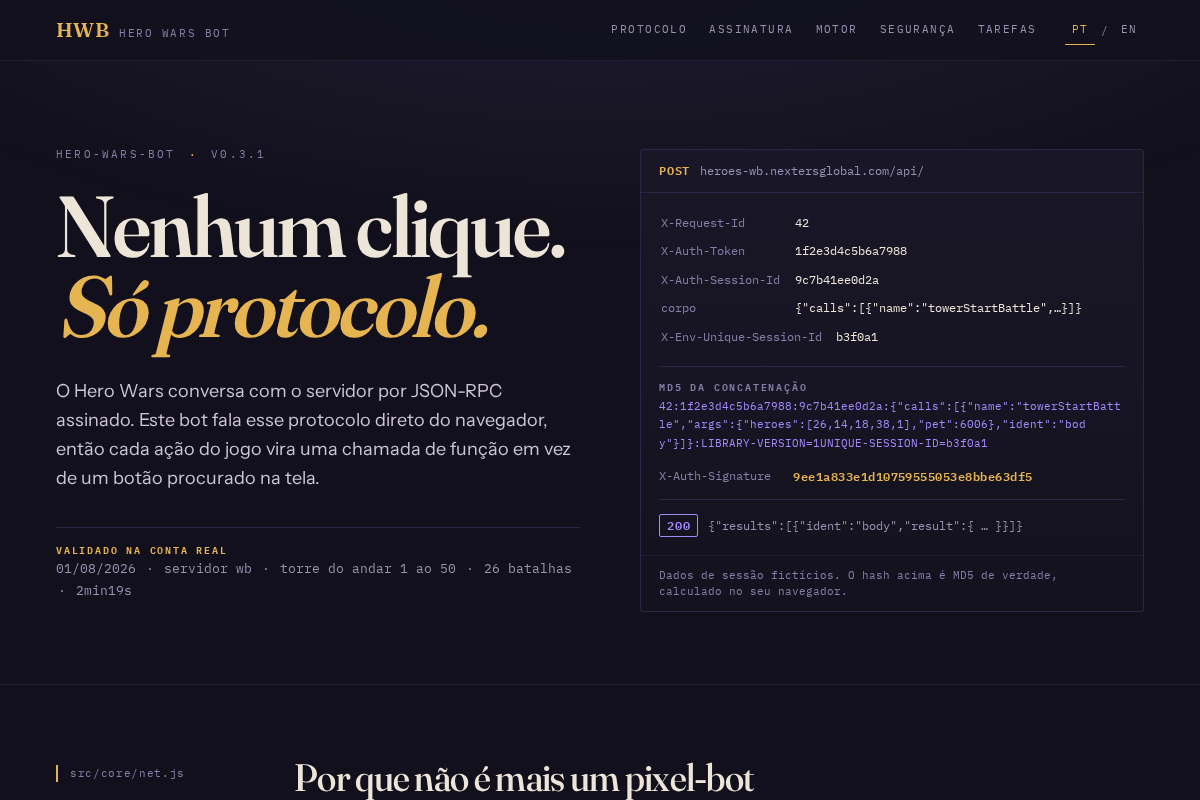
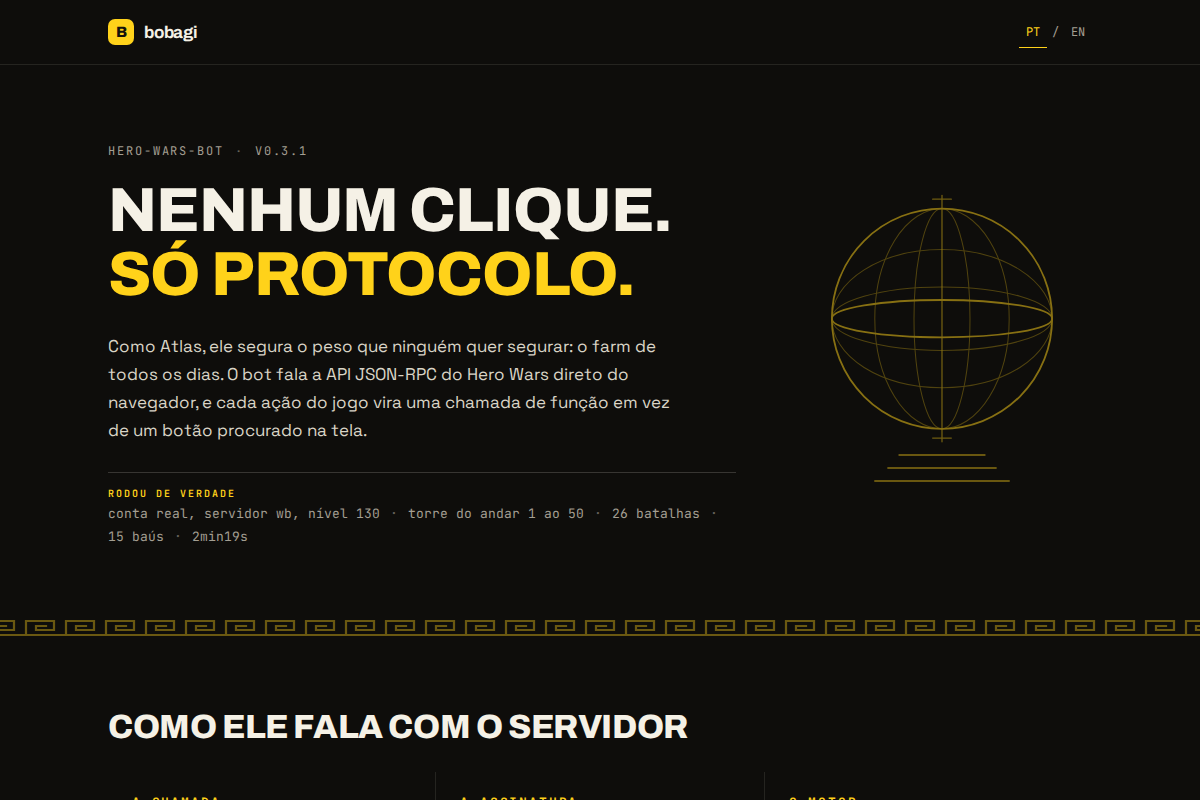
feat: /HeroWars vira 301 para o subdominio e sai do portfolio
A pagina local era conteudo duplicado competindo com herowars.bobagi.space
no indice. Consolidado num lugar so.

- nginx: location = /HeroWars devolve 301 para https://herowars.bobagi.space/
- rota, componente e entrada de sitemap removidos; o botao "Detalhes" do card
  saiu (o CTA primario ja leva ao subdominio)
- chaves game_more e cta_details removidas, ficaram sem uso
- screenshot do card regerado com o site redesenhado

diff --git a/src/router.js b/src/router.js
@@ -6,7 +6,6 @@ const routes = [
   { path: "/", name: "HomePage", component: HomePage },
   { path: "/p/:slug", name: "CaseStudy", component: () => import("./components/CaseStudy.vue") },
   { path: "/Snowflake", name: "Snowflake", component: () => import("./components/SnowFlake.vue") },
-  { path: "/HeroWars", name: "HeroWars", component: () => import("./components/HeroWars.vue") },
   { path: "/MouseJiggler", name: "MouseJiggler", component: () => import("./components/MouseJiggler.vue") },
   // Retired pages - superseded by the portfolio home / case studies.
   { path: "/Avarice", redirect: "/" },

diff --git a/src/components/HomePage.vue b/src/components/HomePage.vue
@@ -467,10 +467,6 @@
                   /><path d="M3 12h18M12 3a15 15 0 0 1 0 18a15 15 0 0 1 0-18" /></svg>
                   <span>{{ $t('cta_site') }}</span>
                 </a>
-                <router-link
-                  class="btn btn-ghost"
-                  to="/HeroWars"
-                >{{ $t('cta_details') }}</router-link>
               </div>
             </div>
           </div>
